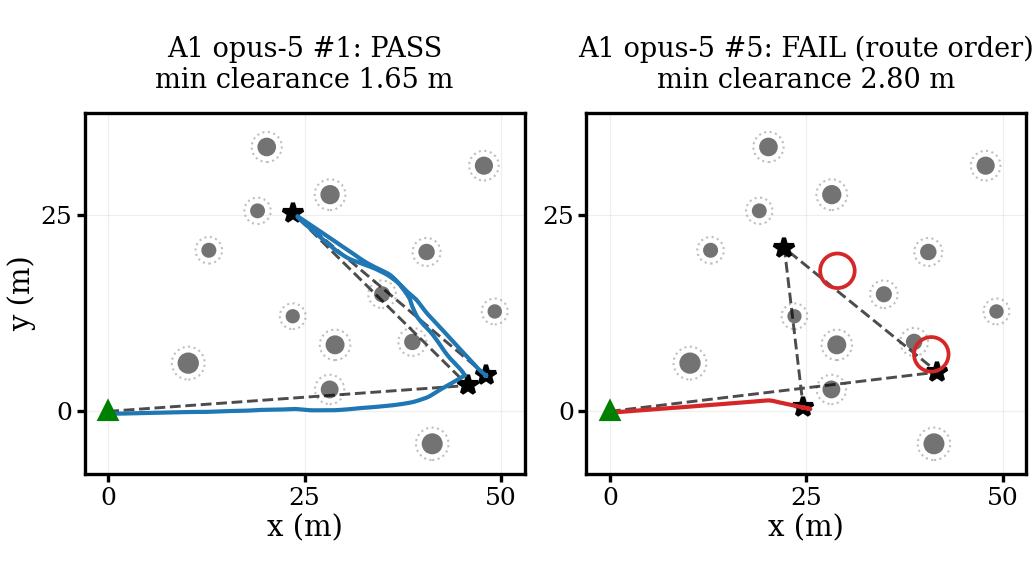
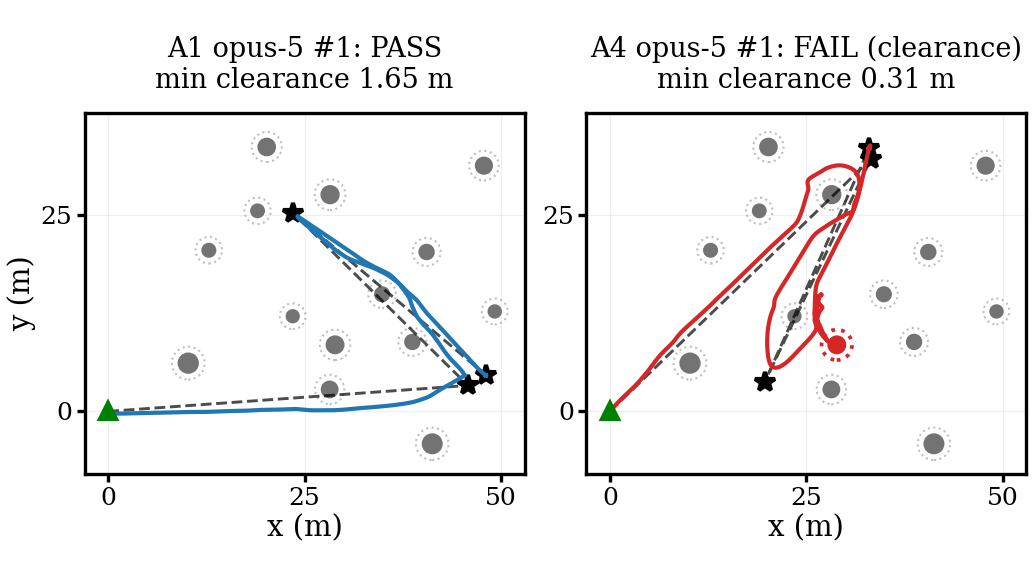
paper submodule -> 0b0e298 (Fig. 4 right panel: A4 opus-5 #1 re-judged clearance failure); notebook 011 §(e)(c) record + tracks script

diff --git a/notebook/011-agent-study-v6-trials/results/e-qualitative-figures/make_tracks_figure.py b/notebook/011-agent-study-v6-trials/results/e-qualitative-figures/make_tracks_figure.py
@@ -4,11 +4,16 @@
 Two officially scored R7 flights on the EVAL pillar field, drawn from the
 judge's own odometry capture and issued route:
   left  — A1 (AirStack scaffolded, closed loop), claude-opus-5 trial #1:
-          PASS, min clearance 1.65 m
-  right — A1, claude-opus-5 trial #5: FAIL — the fresh evaluation route
-          was not followed in corridor order (two checkpoints never
-          reached), although clearance was kept; the campaign's one
-          fresh-route generalization failure
+          PASS, min clearance 1.65 m (Isaac Sim, PX4-in-the-loop)
+  right — A4 (assemble-it-yourself, raw trial id A3_*), claude-opus-5
+          trial #1, Amendment 3 re-judge: FAIL — every checkpoint reached
+          in order, but the shipped system passed 0.31 m from an eval
+          pillar against the 1.0 m clearance gate (Gazebo, PX4 SITL x500)
+
+History: until 2026-09-09 the right panel was A1 opus-5 #5
+(r5_artifacts_81731), the campaign's one fresh-route generalization
+failure; the paper lead asked for the failing example to come from A4 so
+the panel contrasts the platform arms rather than two A1 runs.
 
 Answer-key note: the EVAL layout was withheld from every figure until the
 campaign concluded (strategy choice 2026-08-28). Campaign v6 is complete
@@ -32,17 +37,19 @@ STUDY = Path.home() / "Development/AirStack/agent_study"
 FLY_Z = 0.3  # matches the judge's clearance check (ground samples ignored)
 
 # (panel title, raw trial dir, official R7 artifact dir)
-# Both flights are AirStack-arm scoring flights: the eval scene is staged
-# into the Isaac workspace at judge time, so the pillars drawn here were
-# physically present in the simulator. (Bare-parts-arm flights are NOT
-# drawn: the judge never staged the eval world into that arm's Gazebo
-# workspace, so their eval-layout clearance verdicts are not ground truth
-# — see results_summary.md §(e).)
+# Both are scoring flights in which the eval pillars were physically present
+# in the simulator. A1: the judge stages the eval scene into the Isaac
+# workspace. A4 (raw A3_*): ONLY the Amendment 3 re-judge artifacts qualify —
+# the v6 judge never staged the eval world on the Gazebo path (see
+# results_summary.md §(e)/(f)); the re-judged runner (agent_study d0a3482)
+# writes obstacles/world_r7.sdf over provided/world_practice.sdf before the
+# agent's ./bringup, and results.json → rescore.eval_world_check records 14
+# eval / 0 practice pillars in the generated world for this trial.
 TRIALS = [
     ("A1 opus-5 #1: PASS", "A1_claude-opus-5_ladder_claude_001",
      "r5_artifacts_92124"),
-    ("A1 opus-5 #5: FAIL (route order)", "A1_claude-opus-5_ladder_claude_005",
-     "r5_artifacts_81731"),
+    ("A4 opus-5 #1: FAIL (clearance)", "A3_claude-opus-5_ladder_claude_001",
+     "r5_artifacts_9651"),
 ]
 
 
@@ -96,9 +103,12 @@ def main():
 
         shown = pillars if not args.withhold_eval_layout else ([hit] if hit else [])
         for px, py, pr, ph in shown:
-            ax.add_patch(Circle((px, py), pr, color="0.45", zorder=2))
-            ax.add_patch(Circle((px, py), pr + 1.0, fill=False, color="0.75",
-                                ls=":", lw=0.5, zorder=1))
+            violated = hit is not None and mc < 1.0 and (px, py) == (hit[0], hit[1])
+            ax.add_patch(Circle((px, py), pr, color="tab:red" if violated else "0.45",
+                                zorder=2))
+            ax.add_patch(Circle((px, py), pr + 1.0, fill=False,
+                                color="tab:red" if violated else "0.75",
+                                ls=":", lw=0.9 if violated else 0.5, zorder=1))
         rx = [0.0] + [w[0] for w in route]
         ry = [0.0] + [w[1] for w in route]
         ax.plot(rx, ry, "k--", lw=0.7, alpha=0.7, zorder=3)

diff --git a/notebook/011-agent-study-v6-trials/results/results_summary.md b/notebook/011-agent-study-v6-trials/results/results_summary.md
@@ -445,12 +445,21 @@ scoring flights. Artifacts: [`e-qualitative-figures/`](e-qualitative-figures/).
   the judge's own `odom.csv` + `r7_route.json` + `verdict.json` from
   the official scoring artifact dirs, over the EVAL layout
   (`layout_r7.json`). Left: A1/opus-5 #1 (`r5_artifacts_92124`, PASS,
-  min clearance 1.65 m). Right: A1/opus-5 #5 (`r5_artifacts_81731`,
-  FAIL "flown track did not follow the planner route in order" — the
-  campaign's single fresh-route generalization failure: the shipped
-  system flew straight to the final waypoint and stopped; clearance
-  2.80 m). Both are Isaac flights in which the eval pillars were
-  physically loaded (judge stages `obstacles_r7_eval.usda`).
+  min clearance 1.65 m). Right (since 2026-09-09, paper lead's request — contrast the platform
+  arms rather than two A1 runs): A4/opus-5 #1 (raw
+  `A3_claude-opus-5_ladder_claude_001`, Amendment 3 re-judge artifact
+  `r5_artifacts_9651`, FAIL — all 9 checkpoints reached in order but min
+  clearance 0.31 m vs the 1.0 m gate; the grazed pillar is drawn red).
+  The eval pillars were physically loaded in both flights: A1 via the
+  judge's Isaac staging (`obstacles_r7_eval.usda`), A4 via the re-judged
+  runner's `world_r7.sdf` staging (`results.json → rescore.eval_world_check`:
+  14 eval / 0 practice pillars). Only re-judge artifacts qualify for A4 —
+  the v6-original A4 flights never had the eval field in their sim (§(e)).
+  Previous right panel (until 2026-09-09): A1/opus-5 #5
+  (`r5_artifacts_81731`, FAIL "flown track did not follow the planner
+  route in order" — the campaign's single fresh-route generalization
+  failure; the shipped system flew straight to the final waypoint;
+  clearance 2.80 m).
 
 **Answer-key note.** Panel (c) shows the EVAL pillar layout. The
 2026-08-28 rule withheld it from every shareable figure *until the
